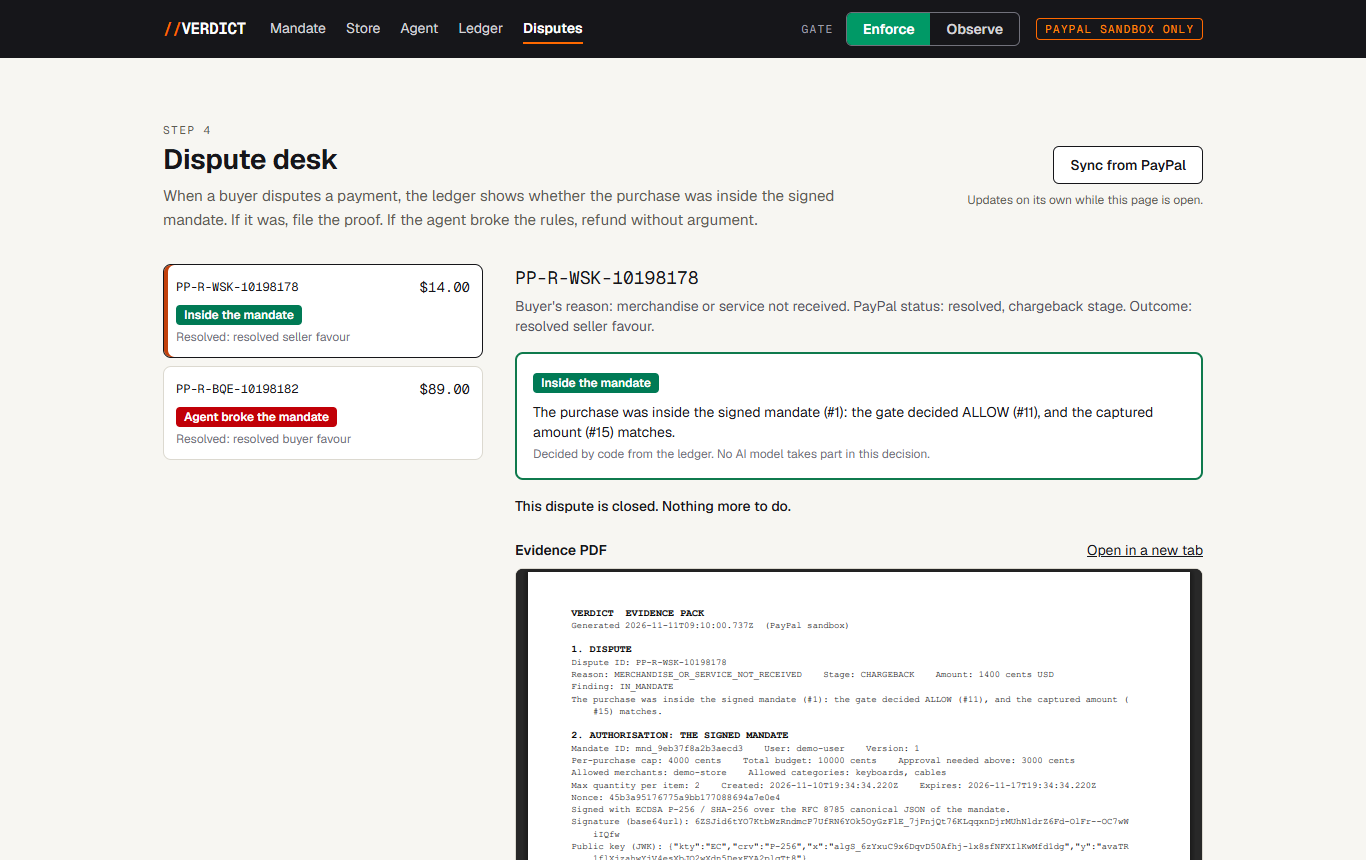
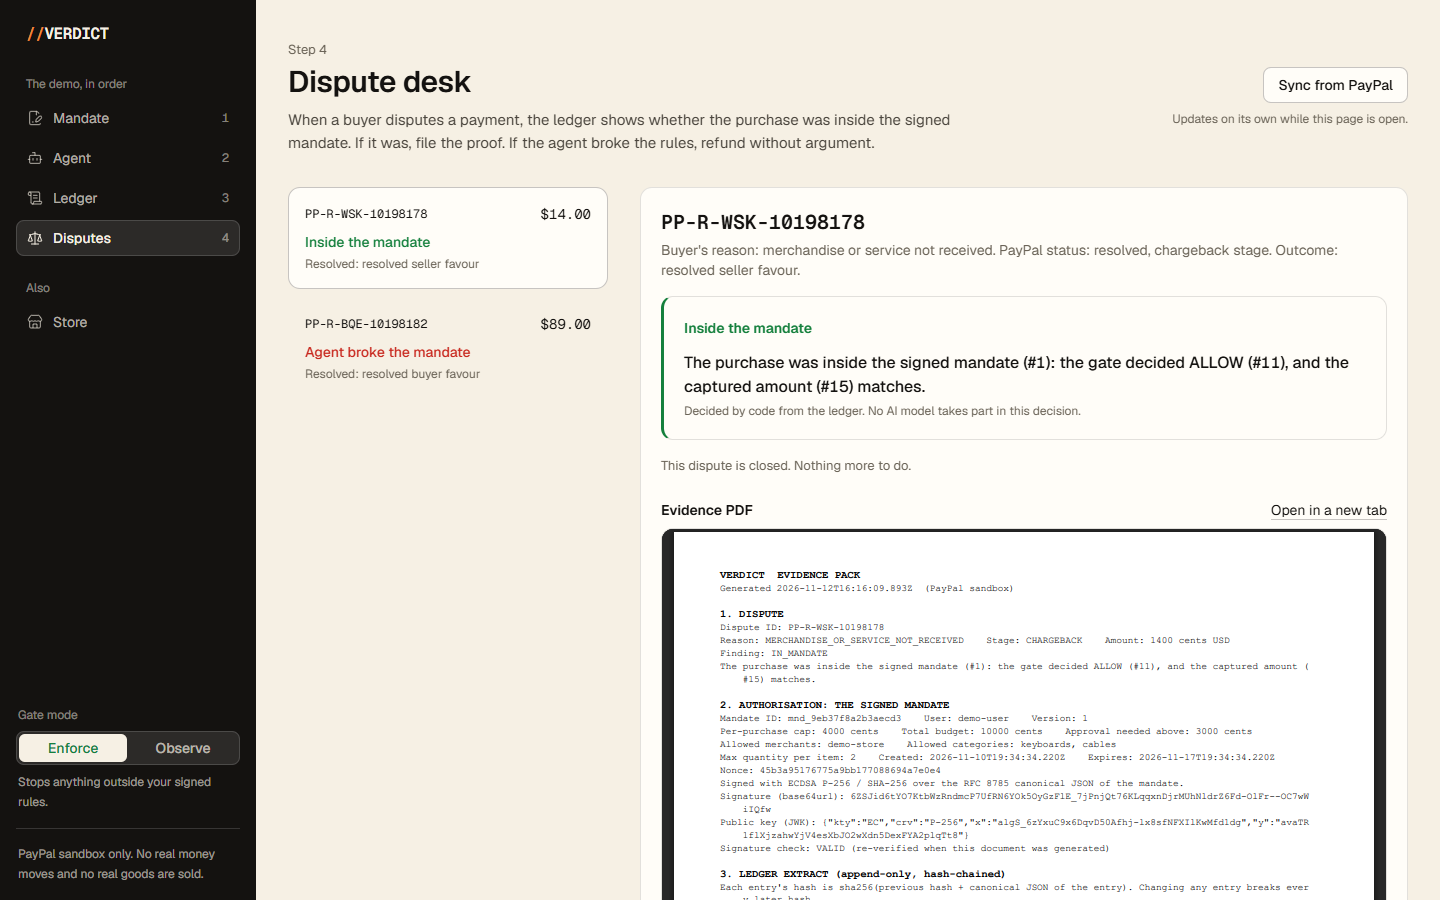
README: screenshots of the new design, sidebar gate switch, UI credits

diff --git a/README.md b/README.md
@@ -8,13 +8,13 @@ When an AI agent spends your money and the payment is later disputed, nobody can
 - **Built for:** the PayPal AI Hackathon
 - **License:** MIT
 
-![The dispute desk showing a dispute classified as inside the mandate, with the evidence PDF](docs/screenshots/disputes.png)
+![The Verdict home page: the question it answers, next to the live ledger from the PayPal sandbox](docs/screenshots/overview.png)
 
 ## What it does
 
 1. **Mandate.** The user types spending rules in plain words. An AI model drafts them into fields, the user reviews them, and the browser signs them with a key that never leaves the device.
 2. **Agent.** A shopping agent searches a demo store and proposes purchases. It can only propose. It cannot pay.
-3. **Gate.** Plain code checks every proposal against the signed mandate and answers ALLOW, ESCALATE (ask the user) or BLOCK. In Observe mode it records the decision without stopping the payment.
+3. **Gate.** Plain code checks every proposal against the signed mandate and answers ALLOW, ESCALATE (ask the user) or BLOCK. In Observe mode (the switch in the sidebar) it records the decision without stopping the payment.
 4. **Ledger.** Every step is appended to a hash-chained log. Edit any entry and verification fails from that entry on.
 5. **Dispute desk.** When a buyer disputes a payment in PayPal, code reads the ledger and classifies the dispute.
 
@@ -24,6 +24,8 @@ When an AI agent spends your money and the payment is later disputed, nobody can
 | B. Agent exceeded the mandate | The gate was in Observe mode, the agent overspent, the ledger holds a `VIOLATION` entry | Accepts the claim and refunds in full | `PP-R-BQE-10198182` resolved for the buyer |
 
 Both rows are real sandbox disputes. They ship as demo data, with their real IDs, so you can open them on the Disputes page.
+
+![The dispute desk showing a dispute classified as inside the mandate, with the evidence PDF](docs/screenshots/disputes.png)
 
 ## Try it in two minutes
 
@@ -37,6 +39,8 @@ On the hosted demo, no setup needed:
 Purchases on the hosted demo are paid with a saved sandbox buyer account, so they need no PayPal login. To open a new dispute yourself you need the sandbox buyer login, which is in the Devpost testing notes.
 
 The hosted database is temporary: it resets to the demo data whenever the app redeploys or wakes from sleep.
+
+![The ledger page after pressing Verify the chain: all entries match their hashes](docs/screenshots/ledger.png)
 
 ## PayPal APIs used
 
@@ -152,6 +156,8 @@ src/store/      the demo store, including the product page with the hidden injec
 src/eval/       the independent mandate check used by the eval
 src/seed/       recorded sandbox history used as demo data
 ```
+
+The interface uses [lucide](https://lucide.dev) icons and the [thinking-orbs](https://github.com/Jakubantalik/thinking-orbs) loading animation (MIT).
 
 The gate checks, in order: the mandate's signature, expiry and revocation; merchant; category; quantity; per-purchase cap; total budget (spent plus reserved, which is what stops split purchases); and the approval threshold. Money is integer cents everywhere and becomes PayPal's decimal strings only at the API boundary.
 
